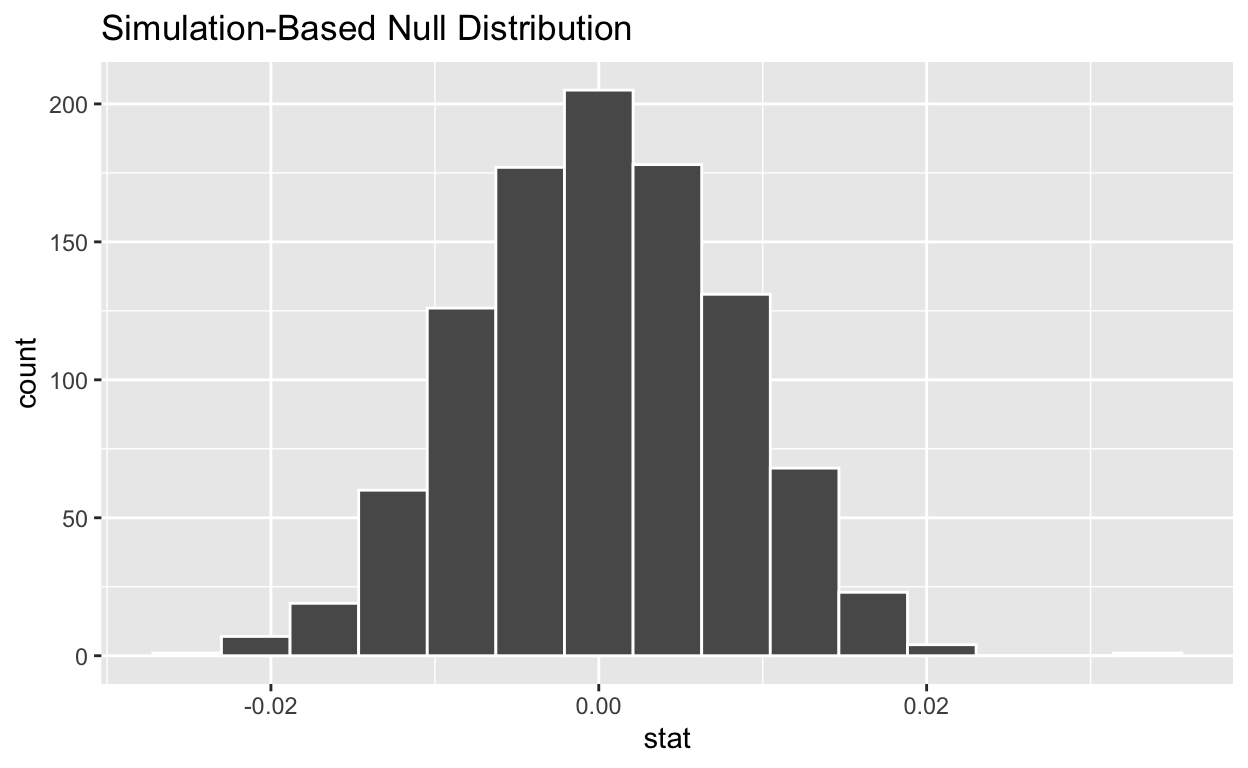
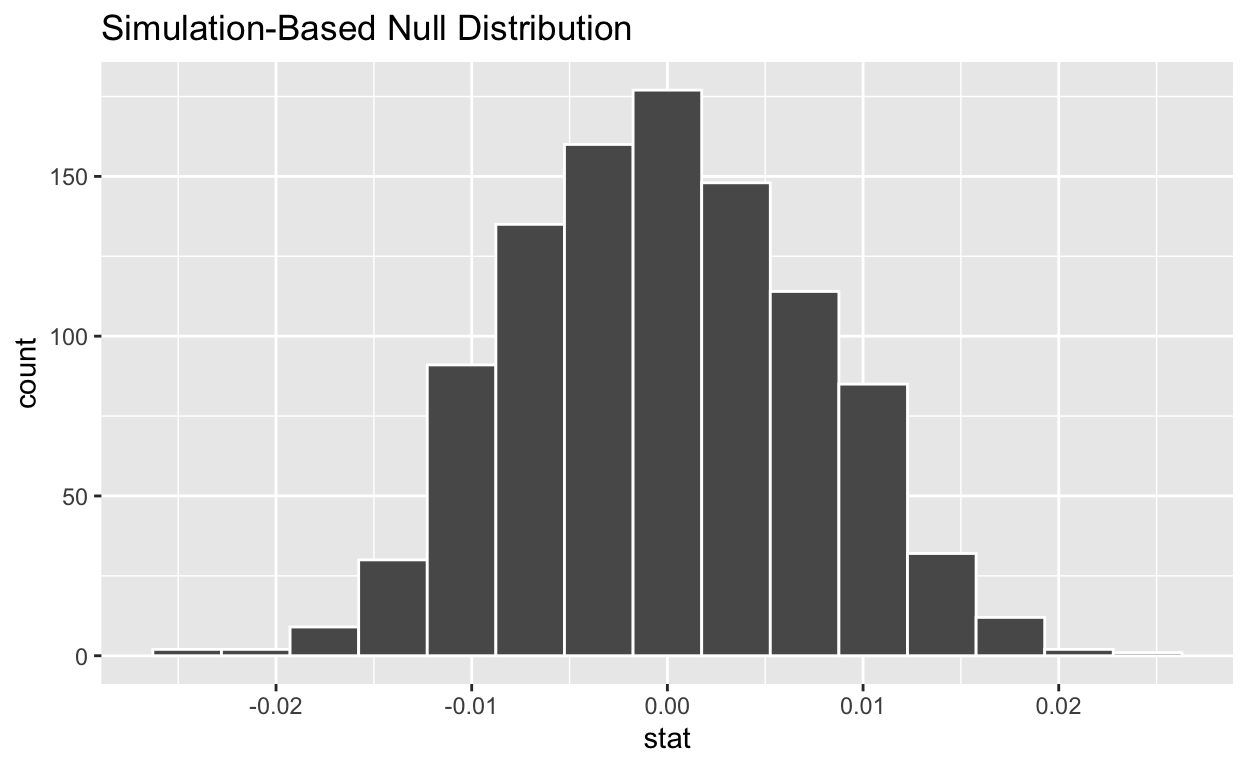
done

diff --git a/index.html b/index.html
@@ -115,7 +115,7 @@ code span.wa { color: #5e5e5e; font-style: italic; } /* Warning */
   <!--/radix_placeholder_rmarkdown_metadata-->
   
   <script type="text/json" id="radix-resource-manifest">
-  {"type":"character","attributes":{},"value":["data/union.csv","index_files/anchor-4.2.2/anchor.min.js","index_files/bowser-1.9.3/bowser.min.js","index_files/distill-2.2.21/template.v2.js","index_files/figure-html5/unnamed-chunk-12-1.png","index_files/header-attrs-2.17/header-attrs.js","index_files/header-attrs-2.24/header-attrs.js","index_files/jquery-3.6.0/jquery-3.6.0.js","index_files/jquery-3.6.0/jquery-3.6.0.min.js","index_files/jquery-3.6.0/jquery-3.6.0.min.map","index_files/popper-2.6.0/popper.min.js","index_files/tippy-6.2.7/tippy-bundle.umd.min.js","index_files/tippy-6.2.7/tippy-light-border.css","index_files/tippy-6.2.7/tippy.css","index_files/tippy-6.2.7/tippy.umd.min.js","index_files/webcomponents-2.0.0/webcomponents.js"]}
+  {"type":"character","attributes":{},"value":["data/union.csv","index_files/anchor-4.2.2/anchor.min.js","index_files/bowser-1.9.3/bowser.min.js","index_files/distill-2.2.21/template.v2.js","index_files/figure-html5/unnamed-chunk-12-1.png","index_files/figure-html5/unnamed-chunk-14-1.png","index_files/header-attrs-2.17/header-attrs.js","index_files/header-attrs-2.24/header-attrs.js","index_files/jquery-3.6.0/jquery-3.6.0.js","index_files/jquery-3.6.0/jquery-3.6.0.min.js","index_files/jquery-3.6.0/jquery-3.6.0.min.map","index_files/popper-2.6.0/popper.min.js","index_files/tippy-6.2.7/tippy-bundle.umd.min.js","index_files/tippy-6.2.7/tippy-light-border.css","index_files/tippy-6.2.7/tippy.css","index_files/tippy-6.2.7/tippy.umd.min.js","index_files/webcomponents-2.0.0/webcomponents.js"]}
   </script>
   <!--radix_placeholder_navigation_in_header-->
   <!--/radix_placeholder_navigation_in_header-->
@@ -1675,7 +1675,57 @@ code span.wa { color: #5e5e5e; font-style: italic; } /* Warning */
 <span>  <span class='fu'><a href='https://infer.tidymodels.org/reference/get_p_value.html'>get_p_value</a></span><span class='op'>(</span>obs_stat <span class='op'>=</span> <span class='va'>ATE_Infer</span>, direction <span class='op'>=</span> <span class='st'>"both"</span><span class='op'>)</span></span></code></pre>
 </div>
 </div>
-<div class="sourceCode" id="cb1"><pre class="sourceCode r distill-force-highlighting-css"><code class="sourceCode r"></code></pre></div>
+<p>if we want to go a step further, we can even shade the p-value on the null distribution to visually demonstrate how likely it is for the null distribution to be an accurate representation of our data relationship!</p>
+<div class="layout-chunk" data-layout="l-body">
+<div class="sourceCode">
+<pre class="sourceCode r"><code class="sourceCode r"><span><span class='va'>null_dist</span> <span class='op'>|&gt;</span></span>
+<span>  <span class='fu'><a href='https://infer.tidymodels.org/reference/visualize.html'>visualize</a></span><span class='op'>(</span><span class='op'>)</span> <span class='op'>+</span></span>
+<span>  <span class='fu'><a href='https://infer.tidymodels.org/reference/shade_p_value.html'>shade_p_value</a></span><span class='op'>(</span>obs_stat <span class='op'>=</span> <span class='va'>ATE_Infer</span>, direction <span class='op'>=</span> <span class='st'>"both"</span><span class='op'>)</span></span></code></pre>
+</div>
+<p><img src="index_files/figure-html5/unnamed-chunk-14-1.png" width="624" /></p>
+</div>
+<h2 id="correlation-calculations">Correlation Calculations</h2>
+<p>it’s really easier to calculate the linear relationship between two variables:</p>
+<div class="layout-chunk" data-layout="l-body">
+<div class="sourceCode">
+<pre class="sourceCode r"><code class="sourceCode r"><span><span class='va'>linear_cor</span> <span class='op'>&lt;-</span> <span class='fu'><a href='https://rdrr.io/r/stats/lm.html'>lm</a></span><span class='op'>(</span><span class='va'>dependent_var</span> <span class='op'>~</span> <span class='va'>independent_var</span>, data <span class='op'>=</span> <span class='va'>data_here</span><span class='op'>)</span></span></code></pre>
+</div>
+</div>
+<p>if we want more specific info from that linear test, we can use the broom framework:</p>
+<div class="layout-chunk" data-layout="l-body">
+<div class="sourceCode">
+<pre class="sourceCode r"><code class="sourceCode r"><span><span class='kw'><a href='https://rdrr.io/r/base/library.html'>library</a></span><span class='op'>(</span><span class='va'><a href='https://broom.tidymodels.org/'>broom</a></span><span class='op'>)</span></span></code></pre>
+</div>
+</div>
+<p>the glance function gives us a ton of good stuff!</p>
+<div class="layout-chunk" data-layout="l-body">
+<div class="sourceCode">
+<pre class="sourceCode r"><code class="sourceCode r"><span><span class='fu'><a href='https://generics.r-lib.org/reference/glance.html'>glance</a></span><span class='op'>(</span><span class='va'>linear_cor</span><span class='op'>)</span></span></code></pre>
+</div>
+<pre><code># A tibble: 1 × 12
+  r.squared adj.r.squared sigma statistic  p.value    df logLik   AIC
+      &lt;dbl&gt;         &lt;dbl&gt; &lt;dbl&gt;     &lt;dbl&gt;    &lt;dbl&gt; &lt;dbl&gt;  &lt;dbl&gt; &lt;dbl&gt;
+1   0.00674       0.00668 0.324      111. 6.29e-26     1 -4766. 9539.
+# ℹ 4 more variables: BIC &lt;dbl&gt;, deviance &lt;dbl&gt;, df.residual &lt;int&gt;,
+#   nobs &lt;int&gt;</code></pre>
+</div>
+<p>but that’s lowkey really overwhelming so we can use the select function to just get the r square which, tbh, is the only value i actually understand anyway:</p>
+<div class="layout-chunk" data-layout="l-body">
+<div class="sourceCode">
+<pre class="sourceCode r"><code class="sourceCode r"><span><span class='fu'><a href='https://generics.r-lib.org/reference/glance.html'>glance</a></span><span class='op'>(</span><span class='va'>linear_cor</span><span class='op'>)</span> <span class='op'>|&gt;</span></span>
+<span>  <span class='fu'><a href='https://dplyr.tidyverse.org/reference/select.html'>select</a></span><span class='op'>(</span><span class='va'>r.squared</span><span class='op'>)</span> </span></code></pre>
+</div>
+<pre><code># A tibble: 1 × 1
+  r.squared
+      &lt;dbl&gt;
+1   0.00674</code></pre>
+<div class="sourceCode">
+<pre class="sourceCode r"><code class="sourceCode r"><span><span class='co'>##if you really want to be pretty, you can knit the r squared value, but im lazy:</span></span>
+<span><span class='co'>##|&gt;</span></span>
+<span><span class='co'>##knitr::kable(col.names = "R Squared")</span></span></code></pre>
+</div>
+</div>
+<div class="sourceCode" id="cb3"><pre class="sourceCode r distill-force-highlighting-css"><code class="sourceCode r"></code></pre></div>
 <!--radix_placeholder_article_footer-->
 <!--/radix_placeholder_article_footer-->
 </div>
